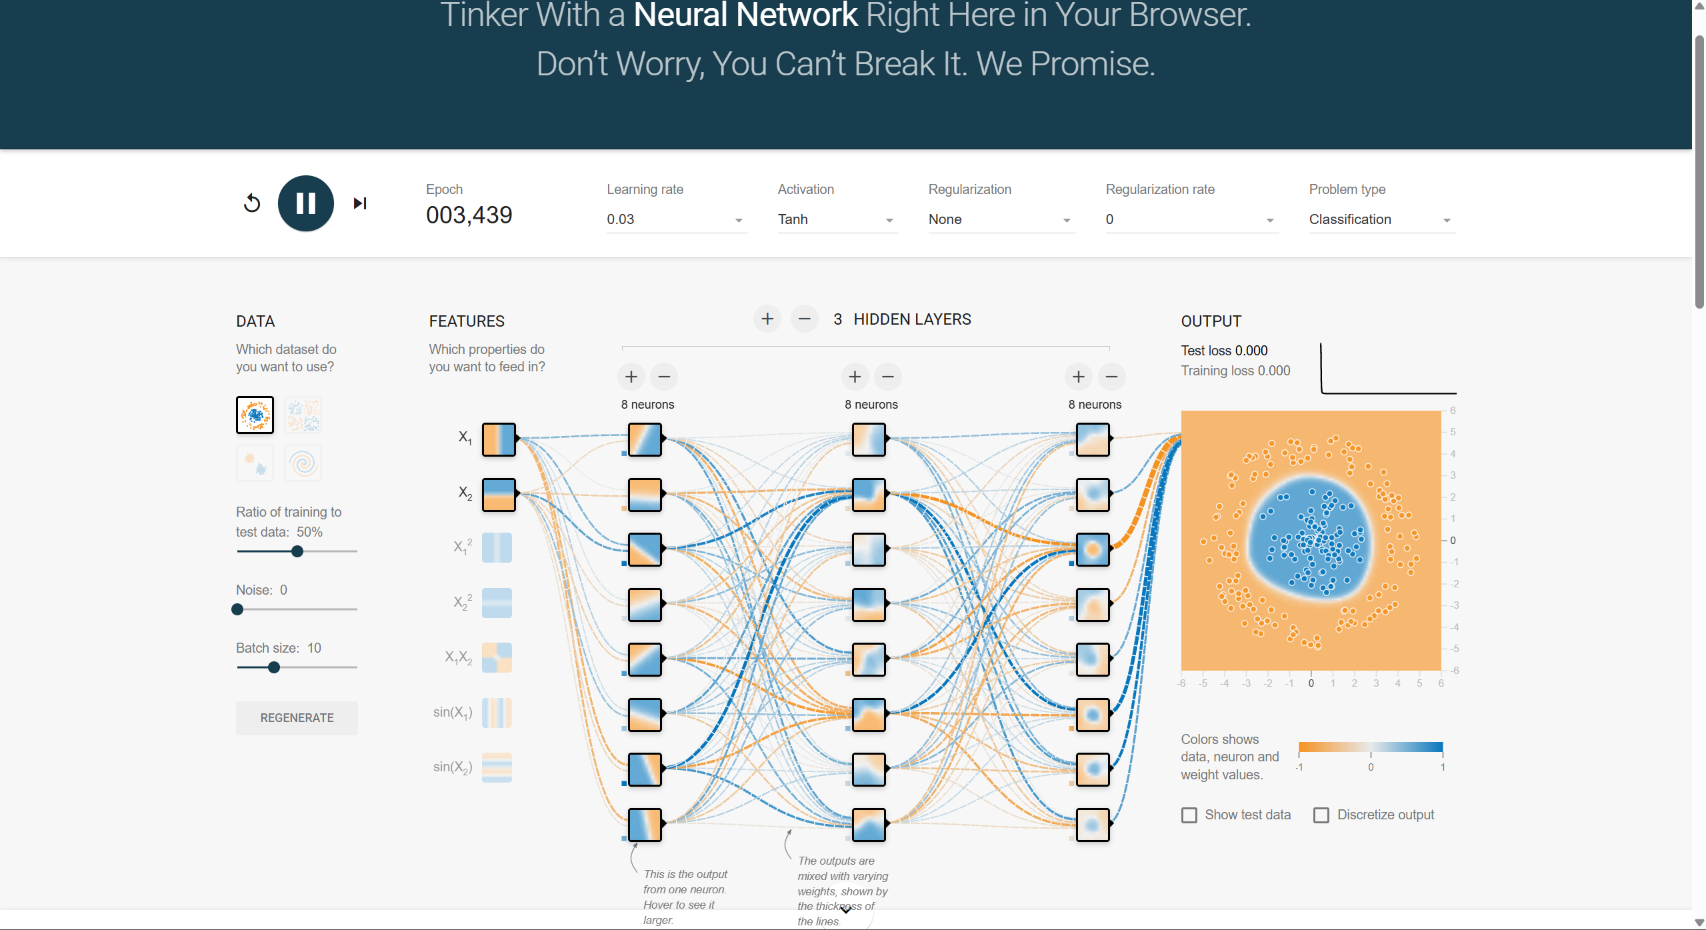
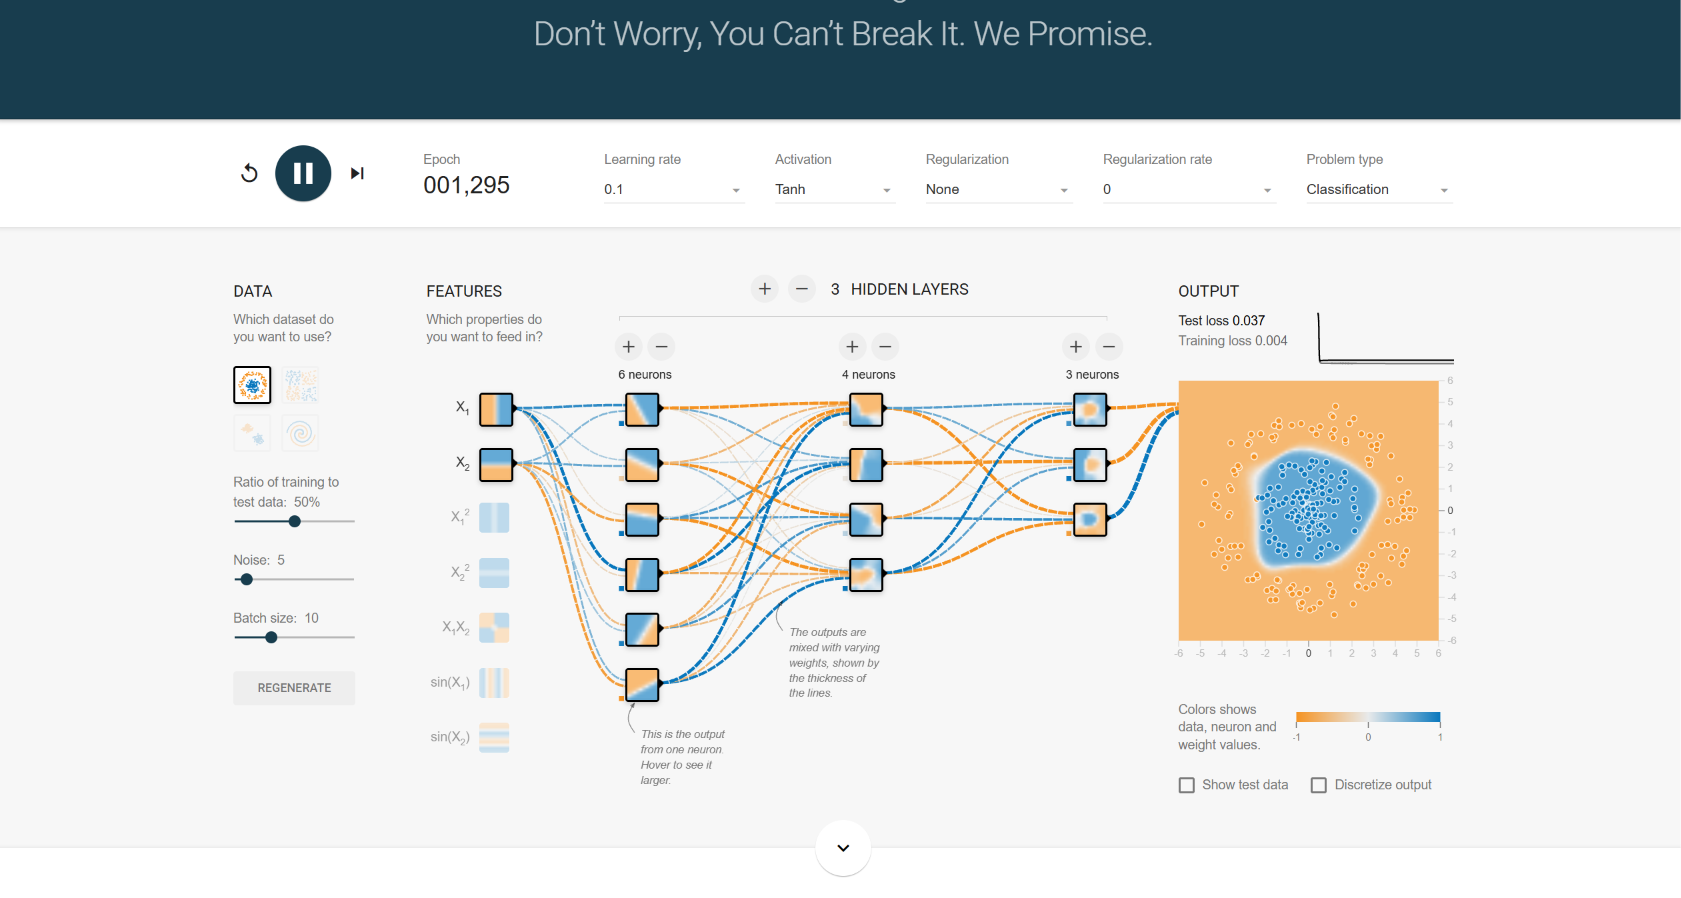
Refine topics 3.5 and 3.6

diff --git a/content/part3-connectionist-ai/3.6-deep-learning-today.md b/content/part3-connectionist-ai/3.6-deep-learning-today.md
@@ -3,6 +3,10 @@
 > **Status:** outline only · **Owner:** Irada · **Reviewer:** Elinna
 
 > v0.1 research draft · AI-assisted (Claude, 2026-11-02) · Not yet verified by the team
+
+> v0.2 modified on 11/02/2026 by Irada. Note = Rewrote most of the content (definitions, tables, example, activity, quiz) and checked the facts against the listed sources. Still to do: team review.
+
+> v0.3 modified on 11/03/2026 by Irada. Note = Made the final edits. Still to do: team review.
  
 ## Learning outcomes
  
@@ -25,12 +29,13 @@
 All the ideas you already know still apply. The network has neurons with weights, it learns from data, and we test it on new data to check that it does not overfit.
  
 An **architecture** is the way the layers and connections of a network are arranged. Different tasks need different arrangements. This section covers three popular ones.
- 
+
 ## Three architectures
  
 <p align="center">
   <img src="../assets/images/3.6-three-architectures.png" width="750" alt="Three architectures: CNN for images, RNN for sequences, Transformer for text">
 </p>
+
 *Each architecture is built for a different kind of data.*
  
 ### CNN: for images

diff --git a/content/part3-connectionist-ai/3.5-training-practice.md b/content/part3-connectionist-ai/3.5-training-practice.md
@@ -4,6 +4,10 @@
 
 > v0.1 research draft · AI-assisted (Claude, 2026-11-02) · Not yet verified by the team
 
+> v0.2 modified on 11/02/2026 by Irada. Note = Rewrote most of the content (definitions, tables, example, activity, quiz) and checked the facts against the listed sources. Still to do: team review.
+
+> v0.3 modified on 11/03/2026 by Irada. Note = Made the final edits. Still to do: team review.
+
 ## Learning outcomes
  
 - Explain why data is split into a training set and a test set.
@@ -59,6 +63,7 @@ A good model sits between the two.
 <p align="center">
   <img src="../assets/images/3.5-three-fits.png" width="700" alt="Three models fitted to the same points: underfit, good fit and overfit">
 </p>
+
 *The same training points, three models. Left: a straight line is too simple. Middle: a smooth curve follows the pattern. Right: a very wiggly line goes through every point, including the random ones.*
  
 | | Underfitting | Good fit | Overfitting |
